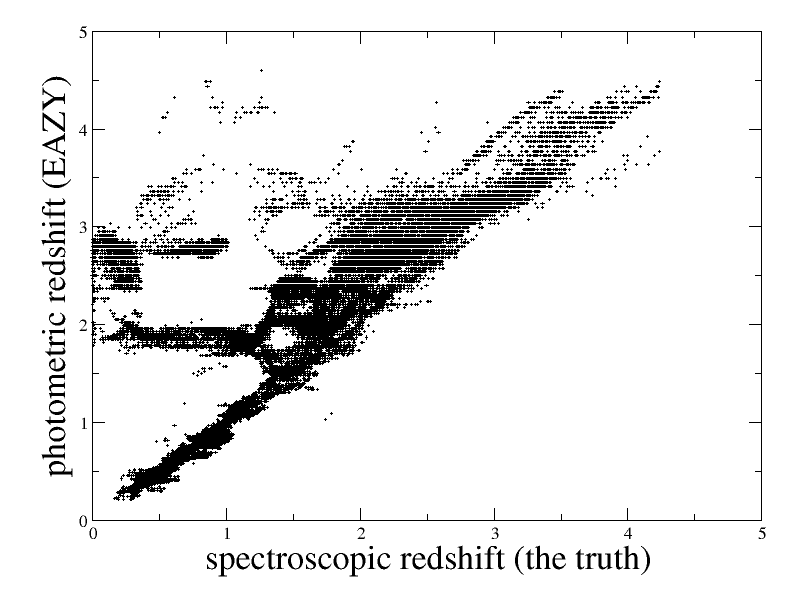
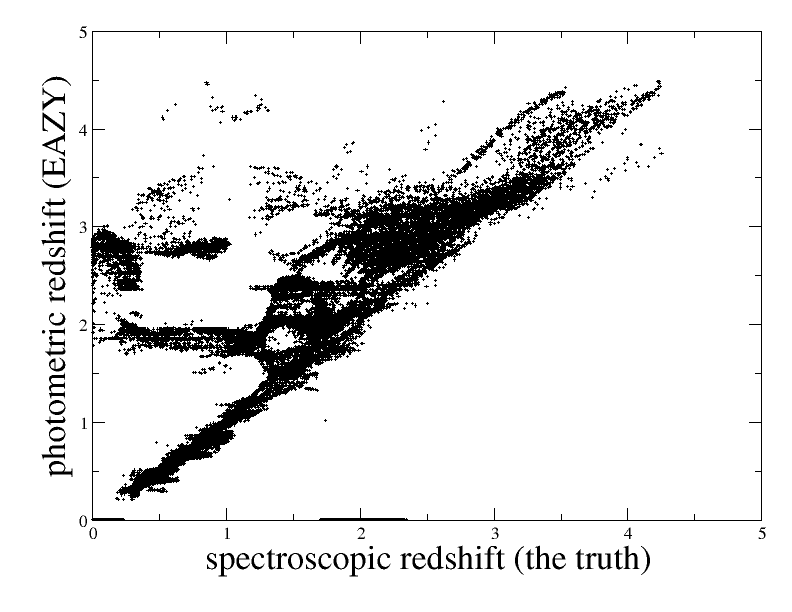
added some figures showing our GP results

diff --git a/doe_proposal_1306.tex b/doe_proposal_1306.tex
@@ -88,7 +88,14 @@ While it is straightforward in principle, it requires
 accurate foreknowledge to select the appropriate basis spectra.  If the chosen
 spectra are not representative of the population of observed
 galaxies, the algorithm will fail to give accurate redshifts and cosmological
-inferences will be inaccurate \cite{budavari2008}.
+inferences will be inaccurate \cite{budavari2008}.  The effects of this
+shortcoming can be seen in Figure \ref{subfig:eazy}, which plots the results
+of running the publically available EAZY algorithm \cite{eazy} on a set of
+simulated galaxy observations designed to represent results expected from the
+Large Synoptic Survey Telescope (LSST\footnote{http://www.lsst.org}).
+While many of the galaxies fall near the
+$z_\text{photometric}=z_\text{spectroscopic}$ line, there is significant scatter
+in the results.
 
 Empirical photometric redshift methods take a training set of galaxies for
 which photometric and spectroscopic information exists and construct an
@@ -97,35 +104,48 @@ their photometric measurements.  The neural network code ANNz is one example
 of this method \cite{annz}.
 Because the empirical photometric redshift mapping function is learned
 directly from actual data, there is no need to ensure perfect theoretical
-understanding of the spectra being inferred. 
-
-
+understanding of the spectra being inferred.  In this case, the principal
+shortcoming the method is that present algorithms are designed only to return a
+photometric redshift value and an uncertainty.  This leaves their results
+sensitive to degeneracies in the photometric data whereby low redshift galaxies
+look similar to high redshift galaxies, confusing the algorithm.  This can be
+seen in Figure \ref{subfig:annz}.
 
 \begin{figure}
-\subfigure[]{
-\includegraphics[scale=0.2]{annz_scatter_plot.png}
-\label{subfig:annz}
-}
 \subfigure[]{
 \includegraphics[scale=0.2]{eazy_scatter_plot.png}
 \label{subfig:eazy}
 }
+\subfigure[]{
+\includegraphics[scale=0.2]{annz_scatter_plot.png}
+\label{subfig:annz}
+}
 \caption{
 Photometric redshift plotted
 against true spectroscopic redshift for 48,000 simulated LSST galaxy
-observations.  Photometric redshifts are derived using the ANNZ neural
-network algorithm in Figure \ref{subfig:annz} and the EAZY template-fitting
-algorithm in Figure \ref{subfig:eazy}
+observations.  Photometric redshifts are derived using the
+EAZY template-fitting
+algorithm in Figure \ref{subfig:eazy} and
+the ANNZ neural
+network algorithm in Figure \ref{subfig:annz}.
 }
 \label{fig:scatter}
 \end{figure}
 
+We propose to address these shortcomings by designing an empirical algorithm
+which treats the photometric redshift problem probabilistically.  Rather than
+taking the spectroscopic data and learning a one-to-one photometric redshift
+relationship, we will use Gaussian Processes to model a probability density
+function in $z_\text{photometric}$ which can characterize the probability that a
+given galaxy is at a given redshift.  This method will not only be resilient
+against the pitfalls demonstrated in Figure \ref{fig:scatter}, but will allow us
+to quantify the information gained by future observations in such a way as to
+optimize the gathering of additional spectroscopic data to further improve on
+our results.
+
 \subsection{Gaussian Processes}
 \label{sec:gppz}
 
-Before we discuss the application of active learning to the problem of
-photometric redshift determination, we will introduce the framework of Gaussian
-processes upon which we will build our active learning algorithms.
 Gaussian processes (GPs) are means for interpolating the value of a scalar
 function on high-dimensional coordinate spaces given noisy data \cite{gp}.
 An important feature of GPs is that they do not make parametric assumptions
@@ -208,41 +228,28 @@ determined photometric redshifts.  This would directly address the
 shortcomings of present Gaussian Process methods identified by Bonfield
 {\it et al}. (2010) vis-\`a-vis error propagation.
 
-To demonstrate the efficacy of Gaussian processes on the problem of
-photometric redshift directly, we consider a set of 106,000 galaxies with
-five-band photometric and spectroscopic data taken from the eighth data
-release of the Sloan Digital Sky Survey \cite{Abazajian:2008wr}.  We
-randomly select 53,000 of these galaxies to be our test set.  These will
-act as real data for which we will pretend we do not have spectroscopic
-redshifts.  The remaining 53,000 will be randomly segregated into 35,000
-galaxies used for training and 18,000 used for validation.  We will feed
-these sets into a Gaussian process whose covariance function is of the form
-\begin{equation}
-\label{testcovar}
-K_{ij}=\exp\bigg[-\frac{1}{2}D^2_{ij}/\ell^2\bigg]
-\end{equation}
-where $D_{ij}$ is the distance in photometric color space between the ith
-and jth galaxies.  $\ell^2$ and $\sigma^2$ (see eqn \ref{eq:mean}) are
-hyperparameters which will be selected so as to maximize the fit to the
-18,000 validation galaxy redshifts.  In the interest of conserving
-computing resources, each photometric redshift will be inferred using only
-data from the 200 nearest neighbor (in photometric color space) training
-galaxies.  For comparison, we will use the same data sets as inputs into
-the publicly available neural net code ANNz \cite{annz} and compare the
-algorithms' results.  Figure \ref{dzfiga} compares the results of the two
-algorithms by plotting $\sqrt{\text{Av}[(z_\text{spec}-z_\text{phot})^2]}$ in bins
-of $\Delta z=0.1$ where $z_\text{spec(phot)}$ is spectroscopic
-(photometric) redshift and $\text{Av}[~]$ denotes the average over the test set.
-As can be seen, this very simple Gaussian process is already as accurate as
-the neural network code.  Figure \ref{dzfiggap} shows the same plot when
-all galaxies with $0.2\le z\le0.4$ have been excised from the training and
-validation sets (so that the algorithm has no way of learning about the
-photometric behavior of galaxies in that redshift range) but not from the
-test set.  Again, the algorithms are comparable, except that the Gaussian
-process is slightly more accurate than the neural net in the unlearned
-redshift range.  This is consistent with the findings of Bonfield {\it et
-  al}. (2010) who show that Gaussian processes are more resilient than
-neural networks to incomplete training sets.
+\begin{figure}
+\subfigure[]{
+\includegraphics[scale=0.2]{gp_scatter_plot.png}
+\label{subfig:gpscatter}
+}
+\subfigure[]{
+\includegraphics[scale=0.2]{lnsum_lsst.png}
+\label{subfig:lnsumlsst}
+}
+\caption{
+Figure \ref{subfig:gpscatter} plots photometric redshift determined by
+our probabilistic Gaussian Process model as a function of spectroscopic
+redshift.  Figure \ref{subfig:lnsumlsst} shows the mean value of
+$\ln[P(\text{truth})]$ as a function of photometric redshift (the vertical
+axes in Figures \ref{fig:scatter} and \ref{subfig:gpscatter}) for all
+three algorithms under consideration.  Note that, even though Figure
+\ref{subfig:gpscatter} shows the same degeneracy seen in Figure
+\ref{subfig:annzscatter}, it gives a significantly higher value of
+$\ln[P(\text{truth})]$ in that range of photometric redshift.
+}
+\end{figure}
+
 
 We propose to build algorithms that are not only robust against incomplete
 data, but are able to extrapolate photometric redshifts beyond the redshift
